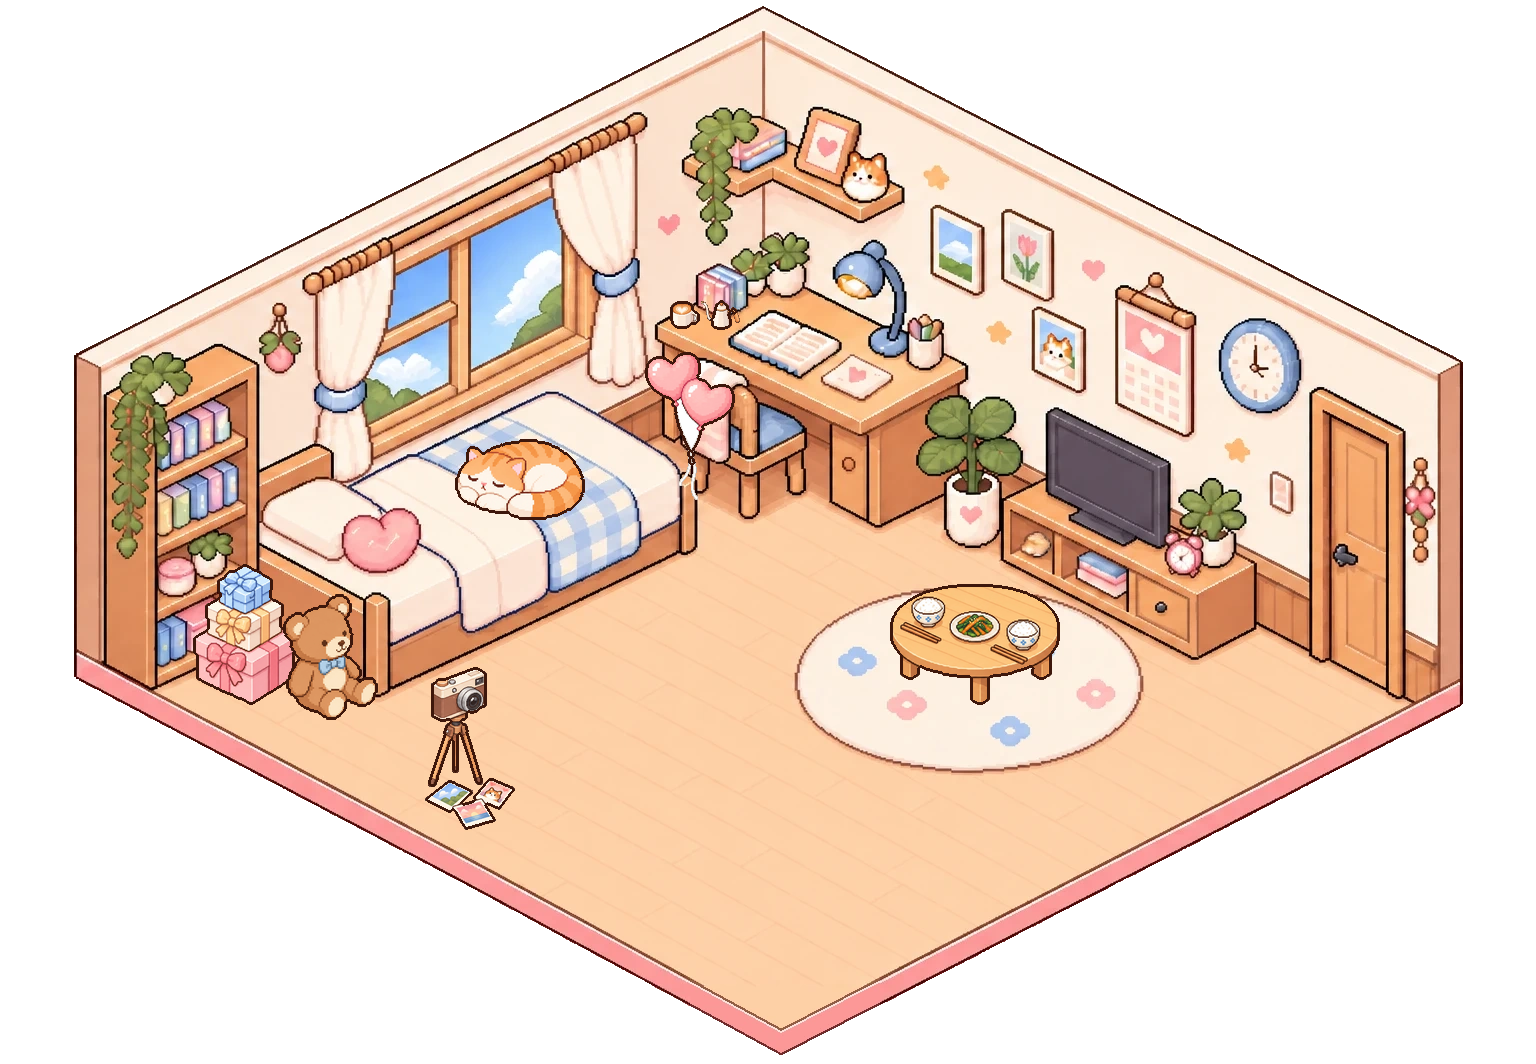
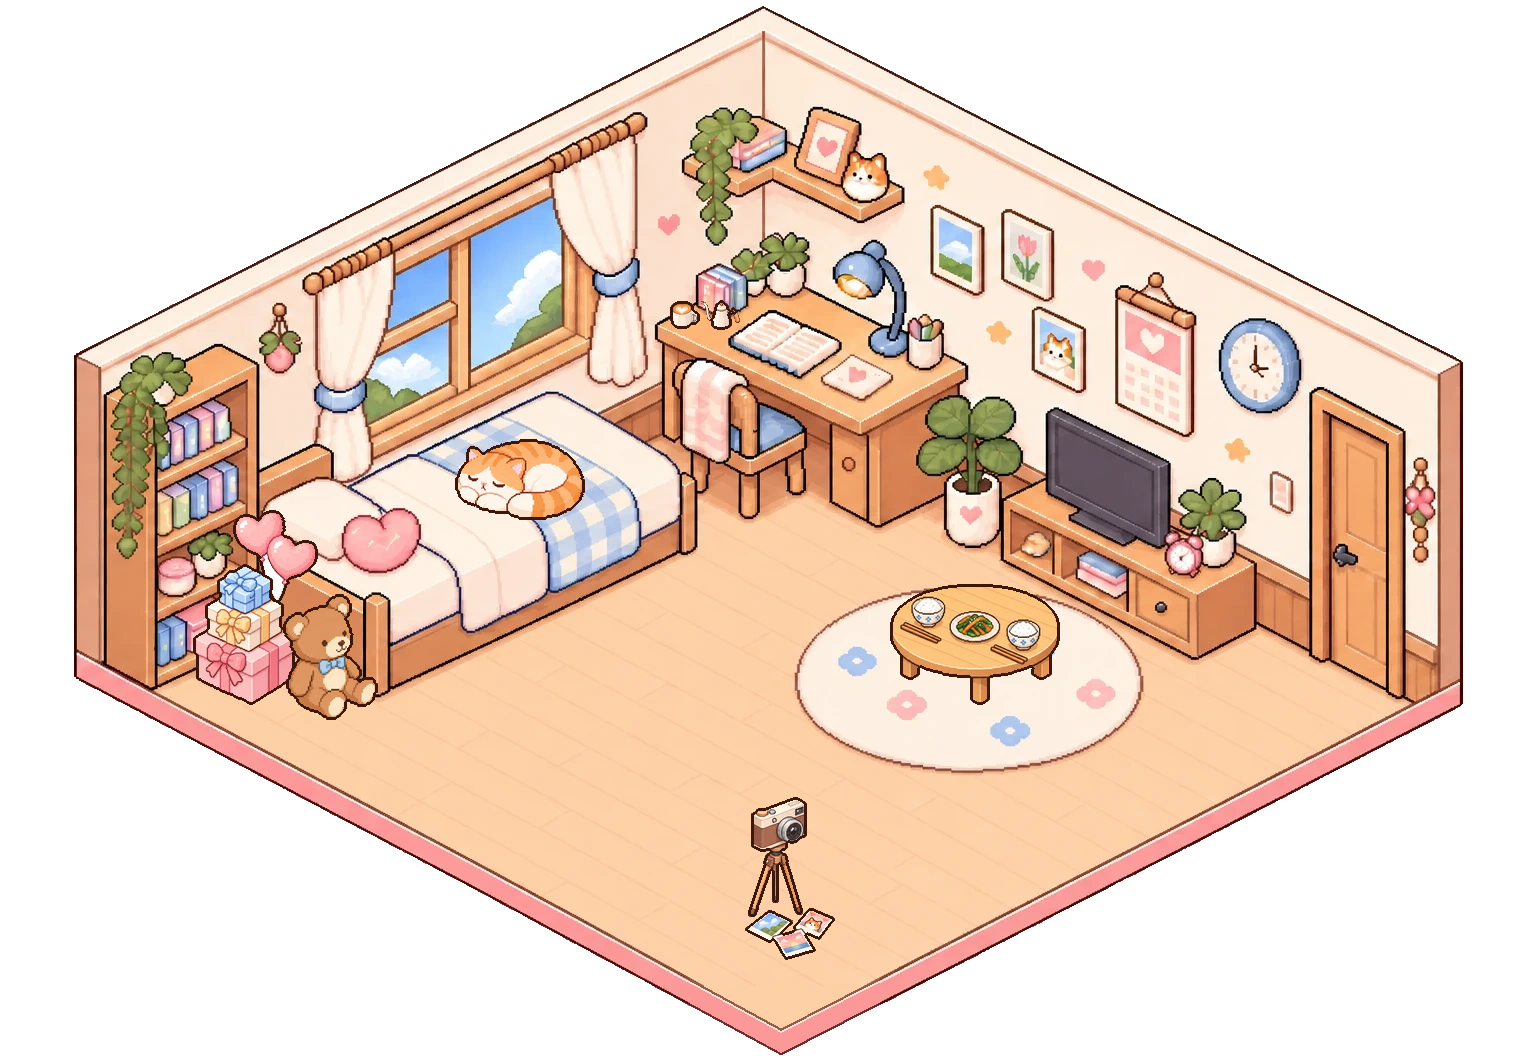
Mockup: balloons tied to the gifts, camera at the front corner
Claude-Session: https://claude.ai/code/session_01HNLjjDhwiWZnZmJhscAi2v

diff --git a/art/tools/furniture_mock.py b/art/tools/furniture_mock.py
@@ -19,7 +19,7 @@ import sys
 RELINE='--raw' not in sys.argv
 room=Image.open('public/room/pixel_room/room.webp').convert('RGBA')
 # key: (中心x, 底部y, 寬)
-PLACE={'gift':(245,705,105),'cat':(520,520,130),'coffee':(705,330,70),'meal':(975,705,170),'camera':(470,830,90),'bear':(330,720,95),'hearts':(690,500,90)}
+PLACE={'hearts':(275,650,85),'gift':(245,705,105),'cat':(520,520,130),'coffee':(705,330,70),'meal':(975,705,170),'bear':(330,720,95),'camera':(790,960,90)}
 for k,(cx,by,w) in PLACE.items():
     im=white_cut(f'art/source/furniture/{k}.png')
     im=im.resize((w,round(im.height*w/im.width)),Image.LANCZOS)
